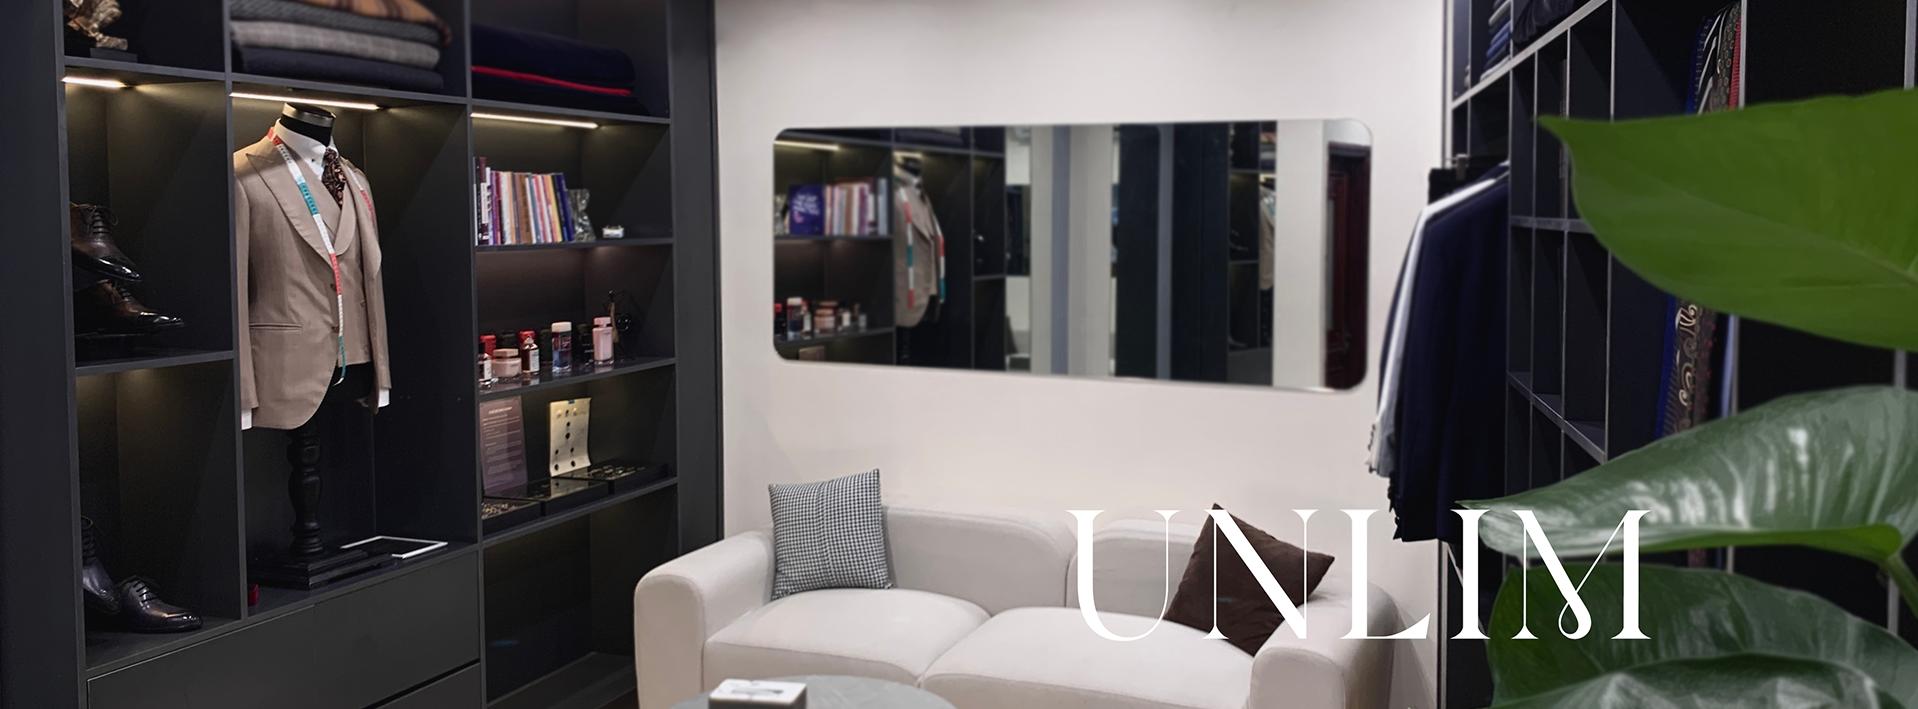
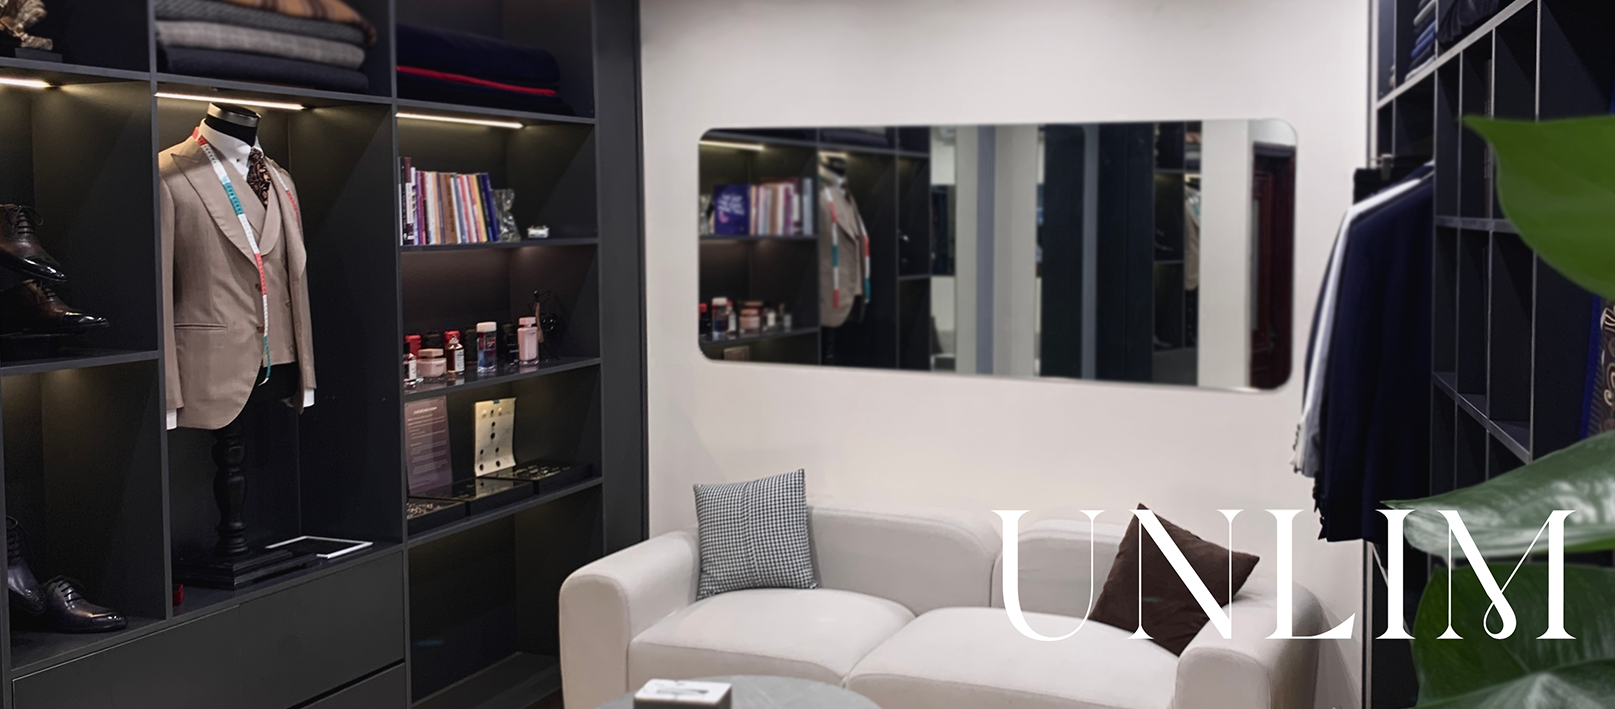
UPDATE-5/4

diff --git a/FashionStore/wwwroot/css/site.css b/FashionStore/wwwroot/css/site.css
@@ -97,12 +97,23 @@ body {
     color: #fff;
     font-size: 22px;
     text-decoration: none;
-    z-index: 1;
+    z-index: 100;
     animation: pulse 1.5s infinite;
+}
+.zalo-circle {
+    position: fixed;
+    bottom: 220px;
+    right: 20px;
+    border-radius: 50%;
+    display: flex;
+    align-items: center;
+    justify-content: center;
+    text-decoration: none;
+    z-index: 100;
 }
 .call-circle {
     position: fixed;
-    bottom: 20px;
+    bottom: 220px;
     right: 20px;
     width: 47px;
     height: 47px;
@@ -114,11 +125,11 @@ body {
     color: #fff;
     font-size: 22px;
     text-decoration: none;
-    z-index: 1;
+    z-index: 100;
     animation: ring 1s infinite;
 }
 .call-btn, .call-circle {
-    bottom: 100px; 
+    bottom: 100px;
 }
 @keyframes ring {
     0% {
@@ -315,6 +326,9 @@ a.dropdown-item {
     width: 100%;
     height: 100%;
     object-fit: cover;
+}
+.carousel-item {
+    aspect-ratio: 16 / 9;
 }
 
 .booking-btn {

diff --git a/FashionStore/Areas/Admin/Controllers/NewsAdminController.cs b/FashionStore/Areas/Admin/Controllers/NewsAdminController.cs
@@ -1,9 +1,8 @@
-using FashionStore.Repository;
-using Microsoft.AspNetCore.Mvc;
-using Microsoft.EntityFrameworkCore;
+using Microsoft.AspNetCore.Mvc.Rendering;
 using FashionStore.Repository.Models;
-using Microsoft.AspNetCore.Authorization;
-using Microsoft.AspNetCore.Mvc.Rendering;
+using Microsoft.EntityFrameworkCore;
+using Microsoft.AspNetCore.Mvc;
+using FashionStore.Repository;
 using FashionStore.Utilities;
 
 namespace FashionStore.Areas.Admin.Controllers
@@ -93,10 +92,19 @@ namespace FashionStore.Areas.Admin.Controllers
                     news.ImageUrl = existingNews.ImageUrl;
                 }
                 news.CreatedAt = existingNews.CreatedAt;
+                var existing = await _context.News.FindAsync(id);
+                if (existing == null) return NotFound();
 
-                _context.Update(news);
+                if (file != null)
+                {
+                    existing.ImageUrl = await UploadFile(file);
+                }
+                existing.Title = news.Title;
+                existing.Content = news.Content;
+                existing.Slug = news.Slug;
+                existing.NewsCategoryId = news.NewsCategoryId;
+                existing.IsPublished = news.IsPublished;
                 await _context.SaveChangesAsync();
-
                 return RedirectToAction(nameof(Index));
             }
             ViewBag.NewsCategoryId = new SelectList(_context.NewsCategories, "NewsCategoryId", "CategoryName", news.NewsCategoryId);
